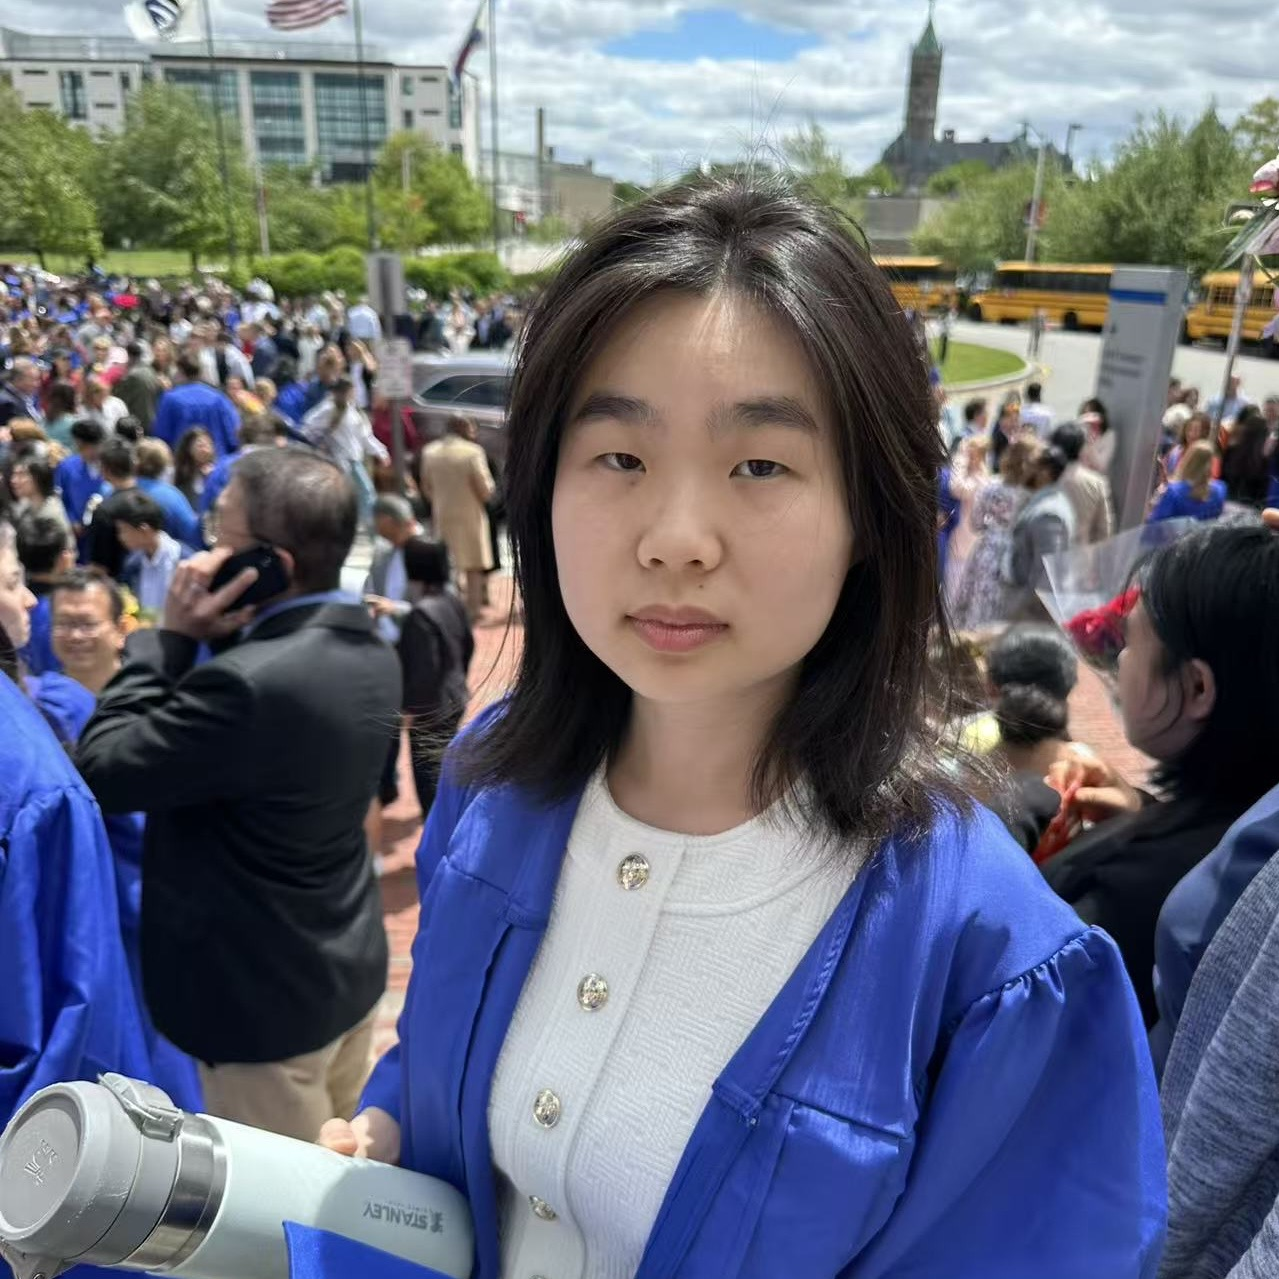
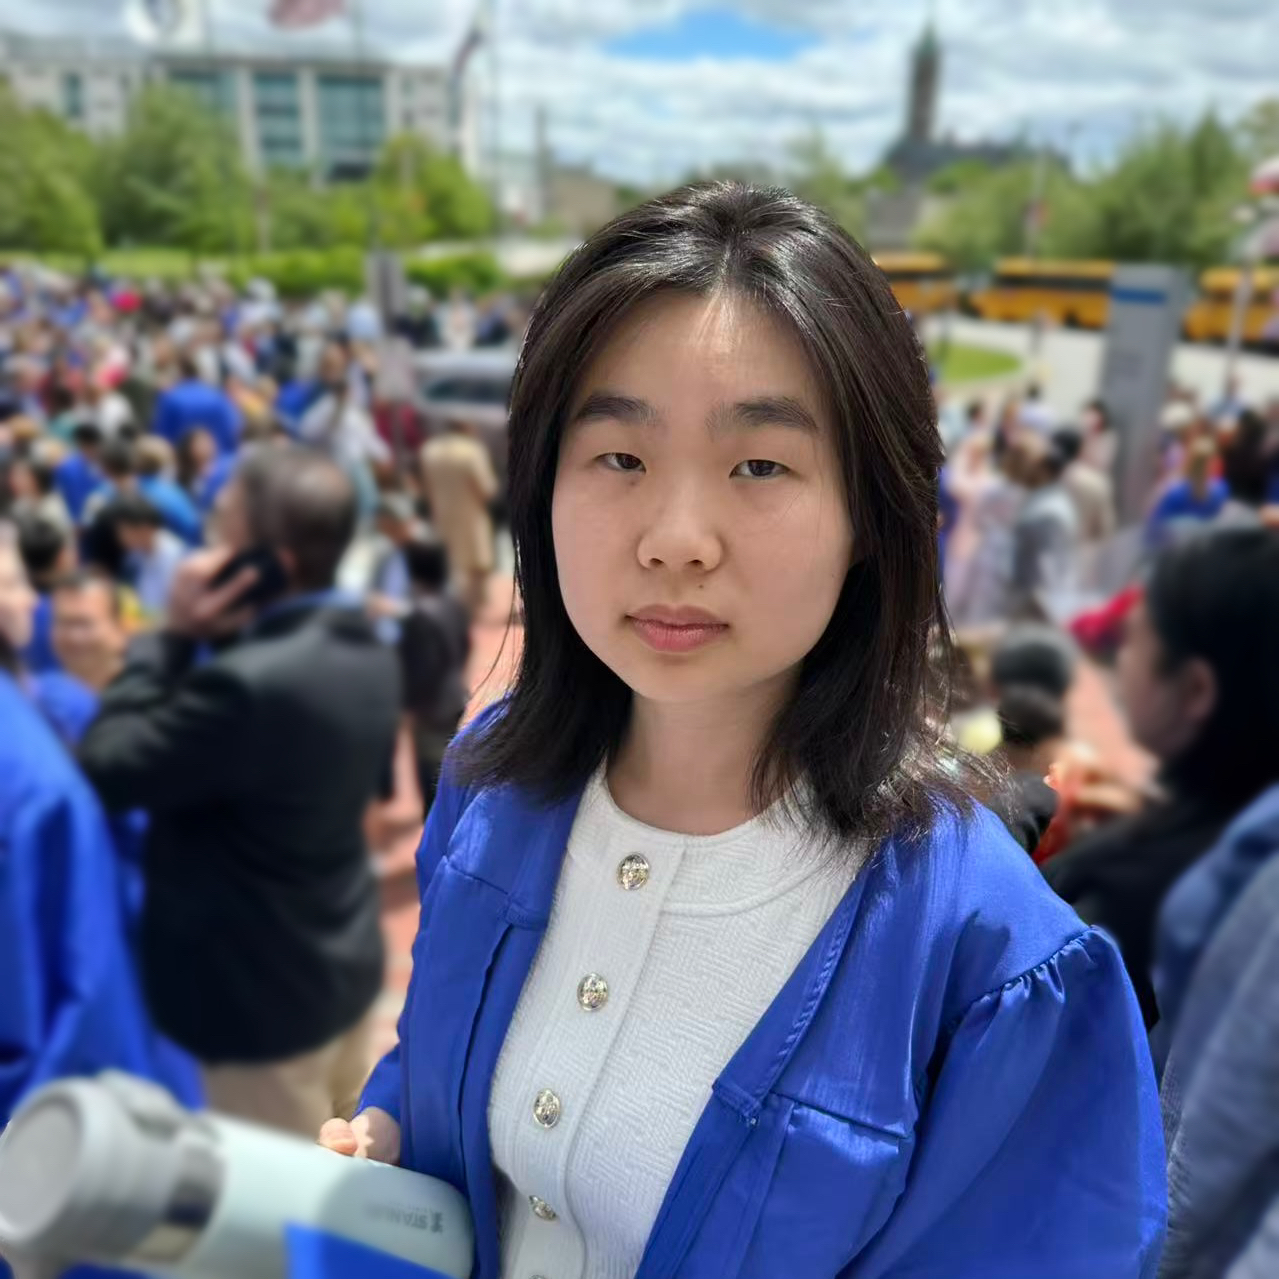
new pfp

diff --git a/_site/index.html b/_site/index.html
@@ -48,7 +48,7 @@
 
 </nav>
     <section id="intro">
-    <img src="assets/images/sw_pfp.png" alt="Profile Picture">
+    <img src="assets/images/sw_pfp_new.png" alt="Profile Picture">
     <p>hi! welcome to my website :D </p>
     <p>i'm stephanie wan, a junior at lexington high school. </p>
     <p>
